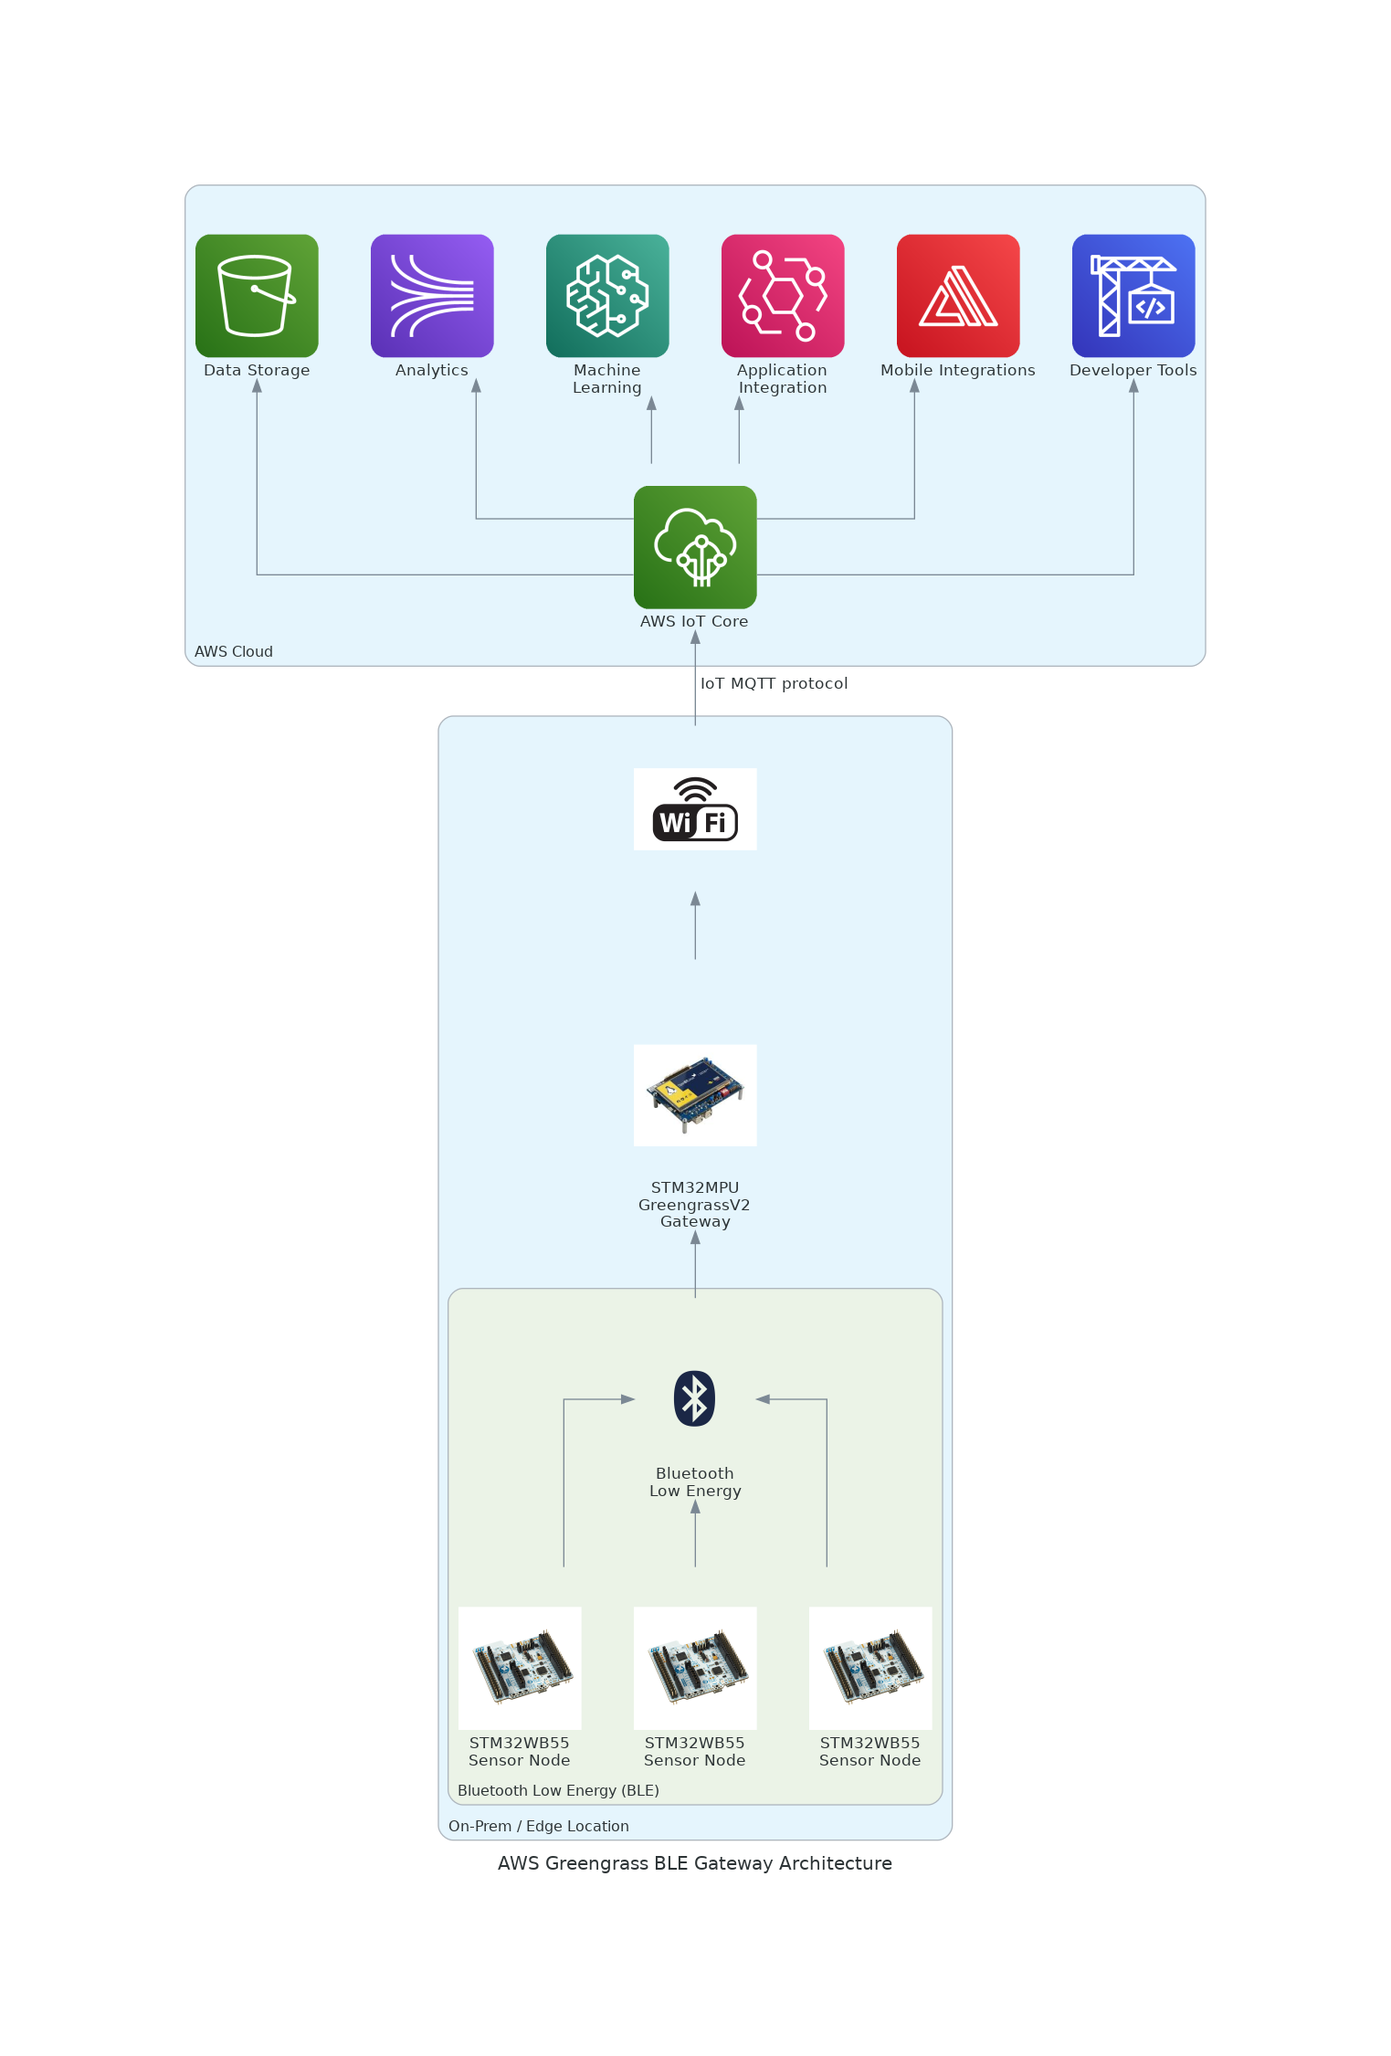
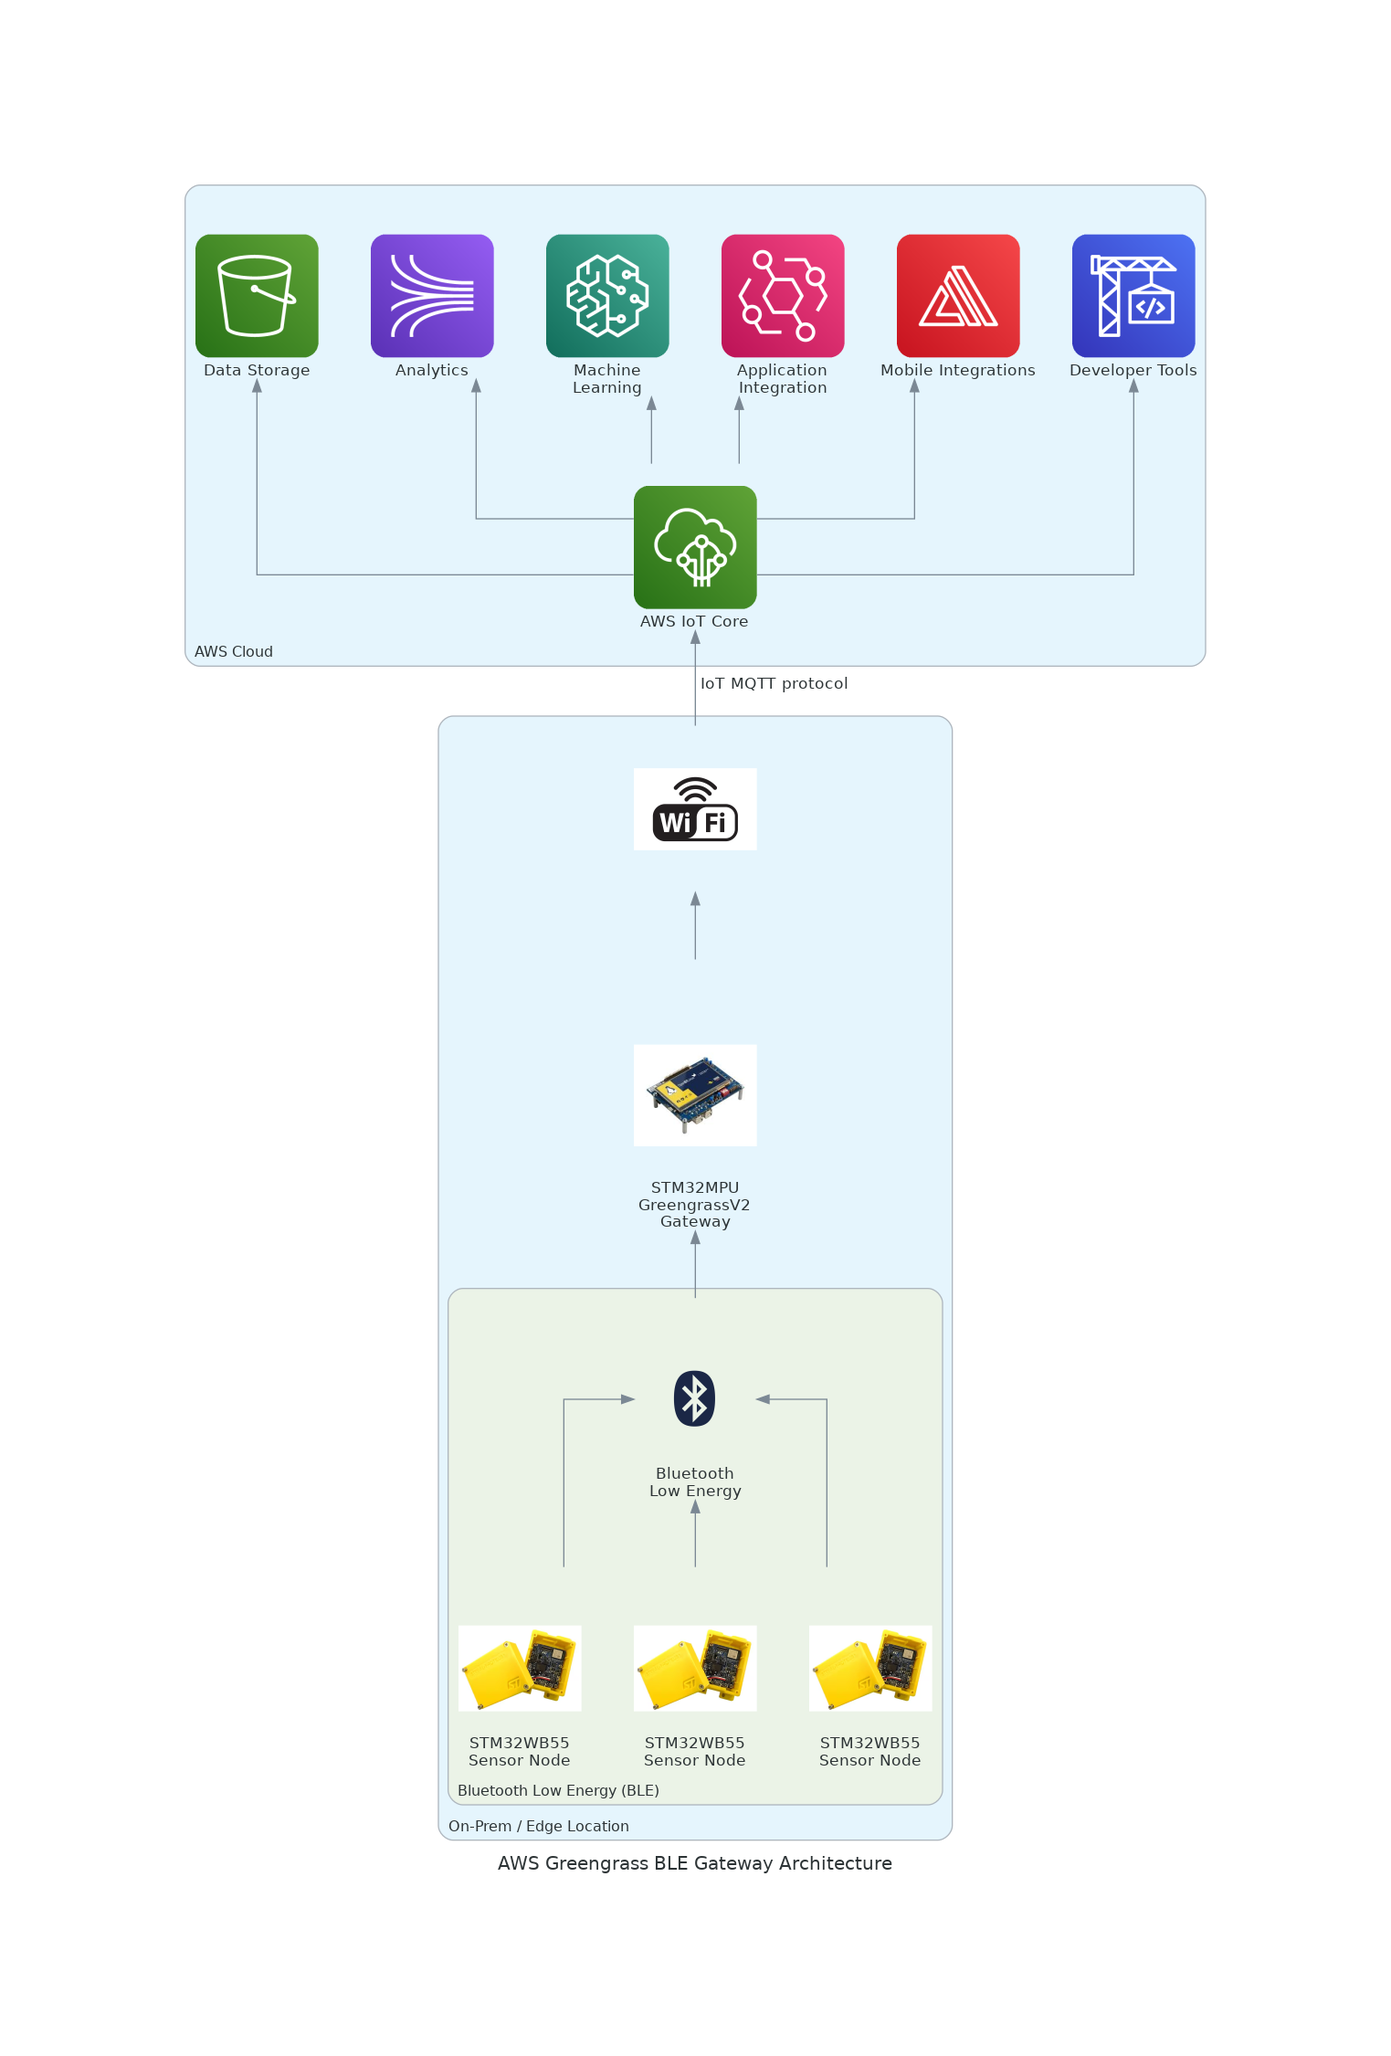
update for proteus

Changed region(s): [[0.5863, 0.7774, 0.6789, 0.8396], [0.4629, 0.7774, 0.5555, 0.8396], [0.3395, 0.7774, 0.432, 0.8396]]

diff --git a/assets/use_cases.py b/assets/use_cases.py
@@ -15,7 +15,7 @@ from diagrams.custom import Custom
 # Remote Health Monitoring - Uses AI/ML for health trend analysis
 with Diagram("Remote Health Monitoring", show=False):
     with Cluster("BLE Network"):
-        ble_sensor = Custom("STM32WB55\nSensor Node", "./NUCLEO-WB55RG.jpg")
+        ble_sensor = Custom("STM32WB55\nSensor Node", "./PROTEUS.png")
         greengrass_gateway = Custom("STM32MPU\nGreengrassV2\nGateway\n", "./MP1DK.jpeg")
 
     iot_core = IotCore("AWS IoT Core")
@@ -30,7 +30,7 @@ with Diagram("Remote Health Monitoring", show=False):
 # Smart Home Integration - Uses AWS Lambda and EventBridge for automation
 with Diagram("Smart Home Integration", show=False):
     with Cluster("BLE Network"):
-        ble_sensor = Custom("STM32WB55\nSensor Node", "./NUCLEO-WB55RG.jpg")
+        ble_sensor = Custom("STM32WB55\nSensor Node", "./PROTEUS.png")
         greengrass_gateway = Custom("STM32MPU\nGreengrassV2\nGateway\n", "./MP1DK.jpeg")
 
     iot_core = IotCore("AWS IoT Core")
@@ -44,7 +44,7 @@ with Diagram("Smart Home Integration", show=False):
 # Medical Device Integration - Uses Amazon S3 & Cognito for secure storage
 with Diagram("Medical Device Integration", show=False):
     with Cluster("BLE Network"):
-        medical_device = Custom("STM32WB55\nSensor Node", "./NUCLEO-WB55RG.jpg")
+        medical_device = Custom("STM32WB55\nSensor Node", "./PROTEUS.png")
         greengrass_gateway = Custom("STM32MPU\nGreengrassV2\nGateway", "./MP1DK.jpeg")
 
     iot_core = IotCore("AWS IoT Core")
@@ -58,7 +58,7 @@ with Diagram("Medical Device Integration", show=False):
 # Industrial Equipment Monitoring - Uses SQS for predictive maintenance
 with Diagram("Industrial Equipment Monitoring", show=False):
     with Cluster("BLE Network"):
-        industrial_sensor = Custom("STM32WB55\nSensor Node", "./NUCLEO-WB55RG.jpg")
+        industrial_sensor = Custom("STM32WB55\nSensor Node", "./PROTEUS.png")
         greengrass_gateway = Custom("STM32MPU\nGreengrassV2\nGateway\n", "./MP1DK.jpeg")
 
     iot_core = IotCore("AWS IoT Core")

diff --git a/assets/aws-greengrass-ble-gateaway.py b/assets/aws-greengrass-ble-gateaway.py
@@ -15,7 +15,7 @@ with Diagram("AWS Greengrass BLE Gateway Architecture", show=False, direction="B
     with Cluster("On-Prem / Edge Location", direction="TB"):
         greengrass = Custom("STM32MPU\nGreengrassV2\nGateway\n", "./MP1DK.jpeg")
         with Cluster("Bluetooth Low Energy (BLE)", direction="TB"):
-            sensors = [Custom("STM32WB55\nSensor Node", "./NUCLEO-WB55RG.jpg") for _ in range(3)]
+            sensors = [Custom("STM32WB55\nSensor Node", "./PROTEUS.png") for _ in range(3)]
             ble = Custom("Bluetooth\nLow Energy", "./Bluetooth.png")
 
         

diff --git a/assets/deployment.py b/assets/deployment.py
@@ -38,7 +38,7 @@ with Diagram("AWS_Greengrass_BLE_Gateway_Deployment", show=False):
         gateway_device = Custom("STM32MPU\nGreengrassV2\nGateway\n", "./MP1DK.jpeg")
 
         # BLE Sensor Node
-        ble_sensor = Custom("STM32WB55\nSensor Node", "./NUCLEO-WB55RG.jpg")
+        ble_sensor = Custom("STM32WB55\nSensor Node", "./PROTEUS.png")
 
         ble = Custom("Bluetooth\nLow Energy", "./Bluetooth.png")
 

diff --git a/readme.md b/readme.md
@@ -6,11 +6,15 @@ Bluetooth Low Energy (BLE) sensor nodes are increasingly utilized across a wide 
 
 ![Architecture](./assets/aws_greengrass_ble_gateway_architecture.png)
 
-In this solution, the **[STM32WB](https://www.st.com/en/microcontrollers-microprocessors/stm32wb-series.html)** series microcontroller acts as the BLE node, transmitting sensor data. The application sets up the **[STM32MPU](https://www.st.com/en/microcontrollers-microprocessors/stm32-arm-cortex-mpus.html)** as the **AWS IoT Greengrass BLE Sensor Gateway**, allowing it to securely transmits data from the STM32WB devices to AWS IoT Core for processing, analytics, and integration with other AWS services. Additionally, the solution supports remote deployment to the STM32MPU devices operating **[Greengrass V2](https://docs.aws.amazon.com/greengrass/v2/developerguide/what-is-iot-greengrass.html)** in the field, providing flexibility for managing remote and distributed sensor networks.
+In this solution, the **[STEVAL-PROTEUS1](https://www.st.com/en/evaluation-tools/steval-proteus1.html)** series microcontroller acts as the BLE node, transmitting sensor data. The application sets up the **[STM32MPU](https://www.st.com/en/microcontrollers-microprocessors/stm32-arm-cortex-mpus.html)** as the **AWS IoT Greengrass BLE Sensor Gateway**, allowing it to securely transmits data from the STEVAL-PROTEUS1 devices to AWS IoT Core for processing, analytics, and integration with other AWS services. Additionally, the solution supports remote deployment to the STM32MPU devices operating **[Greengrass Lite](https://docs.aws.amazon.com/greengrass/v2/developerguide/greengrass-nucleus-lite-component.html)** in the field, providing flexibility for managing remote and distributed sensor networks.
 
 ### What is AWS IoT Greengrass?
 
 AWS IoT Greengrass is a service that extends AWS to edge devices, allowing them to act locally on the data they generate. It enables local execution of AWS Lambda functions, message brokering, data caching, and synchronization with AWS cloud services, even when the devices are offline. Greengrass helps you manage remote devices at scale, securely deploy applications, and keep devices up-to-date with remote software updates. 
+
+#### What is AWS IoT Greengrass Lite?
+
+The Greengrass nucleus lite is a device runtime for constrained edge devices optimized for minimal memory footprint (uses less than 5MB RAM). It has been introduced with AWS IoT Greengrass version 2.14.0 release and is backward compatible with AWS IoT Greengrass generic components, Greengrass V2 API, and SDK.
 
 ### AWS IoT Greengrass Remote Deployment
 
@@ -28,7 +32,6 @@ This setup allows you to:
 
 1. **Developer Prepares the Component**:
    - The **Developer PC** clones this **BLE Gateway Component**.
-   
 
 2. **Upload the Component to Greengrass**:
    - The developer uploads the component artifacts to **Amazon S3**.
@@ -65,14 +68,13 @@ This project serves as a proof of concept, collecting data from BLE devices usin
 
 ## **Technical Overview**
 
-This gateway is a Python-based application packaged as an **[AWS IoT Greengrass V2 component](https://docs.aws.amazon.com/greengrass/v2/developerguide/greengrass-components.html)** for **STM32MPU devices**. It enables **STM32MPU devices** to communicate with nearby **BLE sensor nodes**. The component is **[deployed remotely](https://docs.aws.amazon.com/greengrass/v2/developerguide/create-deployments.html) from the developer's PC** to the STM32MPU board, allowing it to function independently in the field, providing seamless data collection and communication with AWS IoT Core.
+This gateway is a Python-based application packaged as an **[AWS IoT Greengrass V2 component](https://docs.aws.amazon.com/greengrass/v2/developerguide/greengrass-components.html)** for **STM32MPU devices**. It enables **STM32MPU devices** to communicate with nearby **BLE sensor nodes**. The component is **[deployed remotely](https://docs.aws.amazon.com/greengrass/v2/developerguide/create-deployments.html) from the developer's PC** to an STM32MPU board, allowing it to function independently in the field, providing seamless data collection and communication with AWS IoT Core.
 
 Key features of the component include:
 
-- **BLE Device Scanning**: The component uses the **[Bleak](https://bleak.readthedocs.io/en/latest/)** library to scan for nearby BLE devices that advertise specific service **UUIDs (Universially Unique Identifiers)** (e.g., Health Thermometer Service or any custom BLE Sensor Node service UUID).
-   - **Health Thermometer Service UUID**: By default, the component scans for the **Health Thermometer Service UUID** (`00001809-0000-1000-8000-00805f9b34fb`), which is the standard UUID for health thermometer devices as defined in the **[Health Thermometer Profile](https://wiki.st.com/stm32mcu/wiki/Connectivity:STM32WBA_Health_Thermometer#Health_Thermometer_Profile)**. This service enables the collection of temperature data from BLE-enabled health thermometers, and is supported in the provided `BLE_HealthThermometer.bin` firmware. The UUID can be changed in the component’s configuration if you need to scan for other custom services or BLE sensor nodes that use different service UUIDs.
+- **BLE Device Scanning**: The component uses the **[Bleak](https://bleak.readthedocs.io/en/latest/)** library to scan for nearby BLE devices that advertise the [STMicroelectronics Manufacturer ID](https://www.bluetooth.com/specifications/assigned-numbers/)
   
-- **Temperature Data Collection**: It collects temperature data or other sensor information from BLE-enabled devices and formats the data into structured **JSON MQTT messages**.
+- **Data Collection**: The system subscribes to BLE notifications for **temperature**, **accelerometer events**, **switch status**, and **battery status** from nearby PROTEUS devices. It processes and formats the received data into structured **JSON MQTT messages**. For more details, refer to the [Data Collection](#data-collection) section.  
 
 - **Secure MQTT Communication**: The component uses the **[Paho-MQTT](https://pypi.org/project/paho-mqtt/)** library along with **TLS encryption** to securely send data to AWS IoT Core via the MQTT protocol.
 
@@ -80,37 +82,69 @@ Key features of the component include:
 
 By packaging this functionality as an AWS Greengrass component, developers can deploy and manage the gateway remotely, without needing direct access to each device in the field, ensuring scalability and ease of maintenance.
 
-### MQTT Message Structure
+### Data Collection  
 
-Once the sensor data is collected from the BLE device, it is formatted as a structured JSON object before being published to the MQTT broker. The message contains several key data fields:
+#### Overview  
+This system collects and processes sensor data from a Bluetooth Low Energy (BLE) device using predefined **service** and **characteristic UUIDs**. Incoming notifications are parsed based on the characteristic type, and the extracted data is published via MQTT.  
 
-1. **`device_name`**: A unique identifier for the device sending the data (e.g., "Thermometer1").
-2. **`device_address`**: The Bluetooth address of the BLE device (e.g., "A0:23:41:89:56:3C").
-3. **`temperature`**: The actual temperature reading from the device (e.g., 22.5).
-4. **`unit`**: The unit of temperature measurement, determined by flags in the BLE data (e.g., "Celsius" or "Fahrenheit").
-5. **`timestamp`**: The timestamp of when the data was collected, represented as a floating-point number denoting the time.
+#### **Service and Characteristic UUIDs**  
+- **Service UUID**: `00000000-0001-11e1-9ab4-0002a5d5c51b` (PROTEUS)  
+- **Characteristics**:  
+  - **Battery**: `00020000-0001-11e1-ac36-0002a5d5c51b`  
+  - **Temperature**: `00040000-0001-11e1-ac36-0002a5d5c51b`  
+  - **Accelerometer Event**: `00000400-0001-11e1-ac36-0002a5d5c51b`  
+  - **Switch**: `20000000-0001-11e1-ac36-0002a5d5c51b`  
 
-The message is formatted as follows:
+#### **Notification Handling**  
+Incoming BLE notifications are processed based on the characteristic UUID, and data is extracted accordingly:  
 
-```json
-{
-  "device_name": "HTSTM",
-  "device_address": "A0:23:41:89:56:3C",
-  "temperature": 39,
-  "unit": "Celsius",
-  "timestamp": 1617289258.93842
-}
-```
+##### **1. Temperature Data**  
+- **Ignored**: First temperature reading  
+- **Fields**:  
+  - `timestamp` (UInt16)  
+  - `temperature` (°C, scaled by 10)  
+- **MQTT Topic**: `{device_name}/temp/{device_address}`  
 
-After the message is prepared, it is serialized into a JSON string and published to the MQTT broker. 
+##### **2. Battery Data**  
+- **Fields**:  
+  - `timestamp` (UInt16)  
+  - `battery` percentage (scaled by 10)  
+  - `voltage` (V, scaled by 1000)  
+  - `current` (mA, scaled by 10)  
+  - `status` (mapped from a predefined set of values)  
+- **Status Mapping**:  
+  - `0`: Low battery  
+  - `1`: Discharging  
+  - `2`: Plugged, not charging  
+  - `3`: Charging  
+  - `4`: Unknown  
+- **MQTT Topic**: `{device_name}/battery/{device_address}`  
 
-The **topic** for the message is dynamically generated based on the device's name and address. For instance with the previous example, the topic would look like this:
+##### **3. Accelerometer Event Data**  
+- **Fields**:  
+  - `timestamp` (UInt16)  
+  - `event` (mapped from predefined values)  
+  - `steps` (UInt16)  
+- **Event Mapping**:  
+  - `0x00`: No event  
+  - `0x01`: Orientation top right  
+  - `0x02`: Orientation bottom right  
+  - `0x03`: Orientation bottom left  
+  - `0x04`: Orientation top left  
+  - `0x05`: Orientation up  
+  - `0x06`: Orientation bottom  
+  - `0x08`: Tilt  
+  - `0x10`: Free fall  
+  - `0x20`: Single tap  
+  - `0x40`: Double tap  
+  - `0x80`: Wake up  
+- **MQTT Topic**: `{device_name}/acc_event/{device_address}`  
 
-```
-HTSTM/temp/A0:23:41:89:56:3C
-```
-
-The message is then securely transmitted over MQTT protocol to the AWS IoT Core MQTT broker, where it can be processed further, logged, or integrated with other cloud-based services.
+##### **4. Switch Data**  
+- **Fields**:  
+  - `timestamp` (UInt16)  
+  - `switch` state (`0`: OFF, `1`: ON)  
+- **MQTT Topic**: `{device_name}/switch/{device_address}`  
 
 ### Summary
 
@@ -134,7 +168,6 @@ GG_BLE_Gateway/
 │   │           └── install.sh                     # Dependency installation script
 │   └── recipes/
 │       └── com.example.BleGateway-TEMPLATE.yaml   # Greengrass component recipe template
-├── BLE_HealthThermometer.bin                      # STM32WB55 Nucleo BLE Firmware
 ├── config.json                                    # Deployment configuration file
 └── deploy.sh                                      # Deployment script
 ```
@@ -149,19 +182,14 @@ GG_BLE_Gateway/
 
 ## **Required Software and Hardware**
 
-### 1. **STM32WB BLE Devices:**
-   - **Compatible Devices:**  
-     - Any BLE-enabled device that supports GATT profiles.  
-     - This code has been tested with the **[STM32WB55 Nucleo](https://www.st.com/en/evaluation-tools/p-nucleo-wb55.html)** board running the **[Health Thermometer Sensor Example](https://wiki.st.com/stm32mcu/wiki/Connectivity:STM32WBA_Health_Thermometer)** firmware provided.
-
+### 1. **STEVAL-PROTEUS1:**
    <div style="text-align:center;">
-     <img src="assets/NUCLEO-WB55RG.jpg" alt="STM32WB55 Nucleo" width="300" />
+     <img src="assets/PROTEUS.png" alt="STEVAL-PROTEUS1" width="300" />
    </div>
 
    - **Compatible Firmware:**  
-     - You can flash the prebuilt **Health Thermometer Service** firmware to the **STM32WB55 Nucleo** board by simply dragging and dropping the [BLE_HealthThermometer.bin](BLE_HealthThermometer.bin) file onto the board. This allows you to skip the build process.  
-     - For build instructions and more example projects, check out the official **STM32WB** BLE resources:  
-       - [STM32WB BLE Project Examples](https://wiki.st.com/stm32mcu/wiki/Connectivity:STM32WB_Build_BLE_Project)
+      - The **STEVAL-PROTEUS** comes preloaded with compatible firmware. Both **version 1.0.0** and **version 1.1.1** are supported. You can use the preloaded firmware or rebuild and flash your own image. 
+      - For detailed build instructions, refer to the official documentation: [STSW-PROTEUS](https://www.st.com/en/embedded-software/stsw-proteus.html).  
 
 ### 2. **STM32MPU Boards (Greengrass-Compatible):**
    - A **Greengrass-compatible** STM32MPU board is required for deployment.
@@ -204,21 +232,20 @@ To interact with AWS services from the terminal, you need to have the AWS CLI in
 ### **1. Clone This Repository**
 
    ```bash
-   git clone https://github.com/AlnurElberier/GG_BLE_Gateway.git
+   git clone https://github.com/AlnurElberier/GreenGrass_Lite_BLE_Gateway_Proteus
    ```
 
-### **2. Flash Firmware to STM32WB Sensor Node**
-
-   **Drag and Drop the Binary**  
-   - Connect the STM32WB board to your computer via USB.
-   - Drag and drop the provided `BLE_HealthThermometer.bin` firmware file onto the board.
+### **2. Power on STEVAL-PROTEUS**
+  
+   - Power on your STEVAL-PROTEUS board
+   - Ensure you are using a [comptible firmware version](#1-steval-proteus1)
+   - For additional support please review [Getting started with the STEVAL-PROTEUS1](https://www.st.com/resource/en/user_manual/um3000-getting-started-with-the-stevalproteus1-evaluation-kit-for-condition-monitoring-based-on-the-24-ghz-stm32wb5mmg-module-stmicroelectronics.pdf)
 
 
 ### **3. Register Your STM32MPU Board as an AWS IoT Greengrass Lite Device**
 
    Follow this lightweight approach to set up AWS IoT Greengrass on STM32MPU devices :
    - **[STM32MP1_AWS-IoT-Greengrass-nucleus-lite](https://github.com/stm32-hotspot/STM32MP1_AWS-IoT-Greengrass-nucleus-lite)**
-   - **[STM32MP2_AWS-IoT-Greengrass-nucleus-lite](https://github.com/stm32-hotspot/STM32MP2_AWS-IoT-Greengrass-nucleus-lite)**
    
 
 
